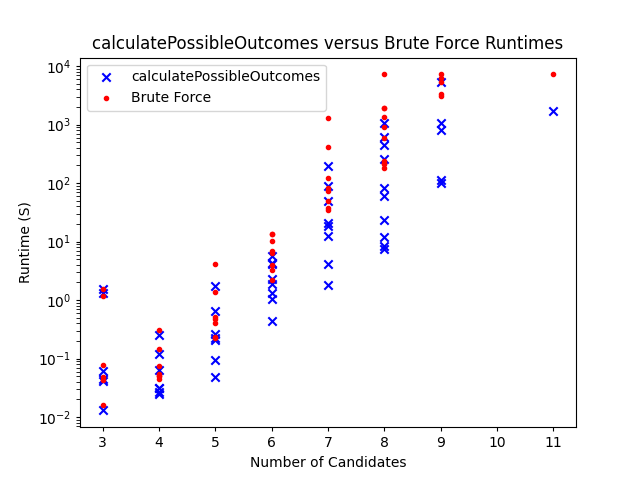
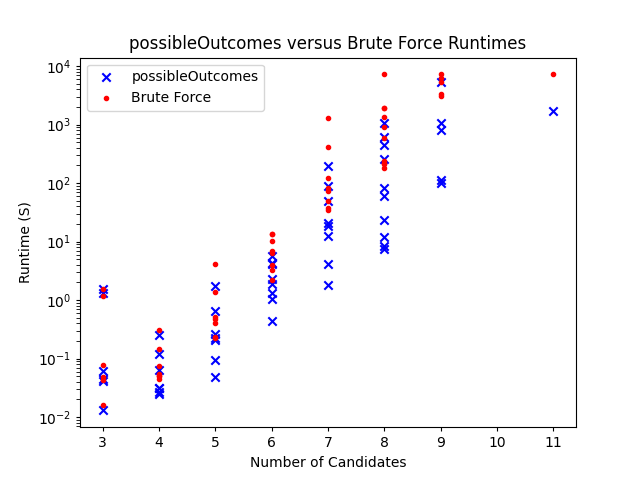
changed function name

Changed region(s): [[0.1562, 0.0625, 0.875, 0.1875]]

diff --git a/plots/plot_data.py b/plots/plot_data.py
@@ -22,11 +22,11 @@ ax1.set_yscale("log")
 
 ax1.set_xlabel("Number of Candidates")
 ax1.set_ylabel("Runtime (S)")
-ax1.scatter(candidates,dp_time, label = "calculatePossibleOutcomes",marker='x',color="blue")
+ax1.scatter(candidates,dp_time, label = "possibleOutcomes",marker='x',color="blue")
 ax1.scatter(candidates,bf_time,label="Brute Force",marker='.',color="red")
 ax1.legend()
 ax1.tick_params(axis=u'both', which=u'both',length=3)
-ax1.set_title("calculatePossibleOutcomes versus Brute Force Runtimes")
+ax1.set_title("possibleOutcomes versus Brute Force Runtimes")
 
 plt.savefig('data_plot.eps', format='eps')
 plt.savefig('data_plot.png', format='png')
